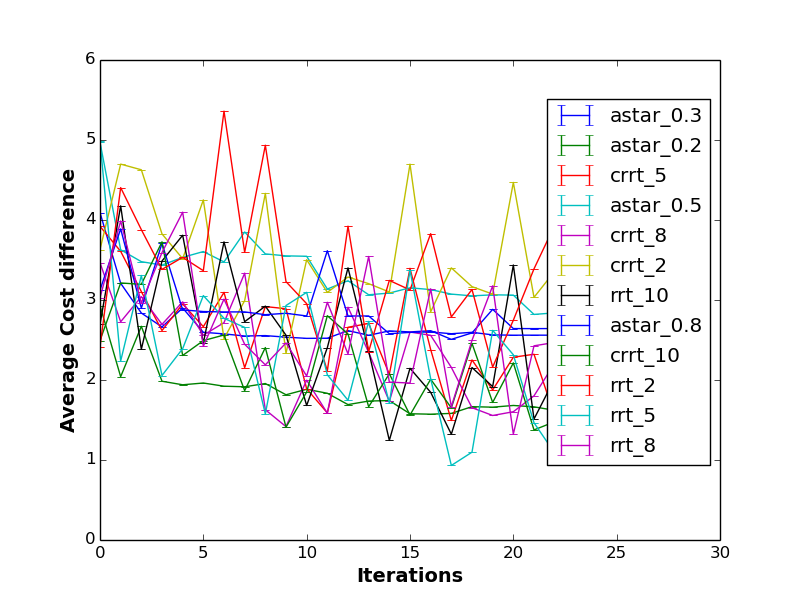
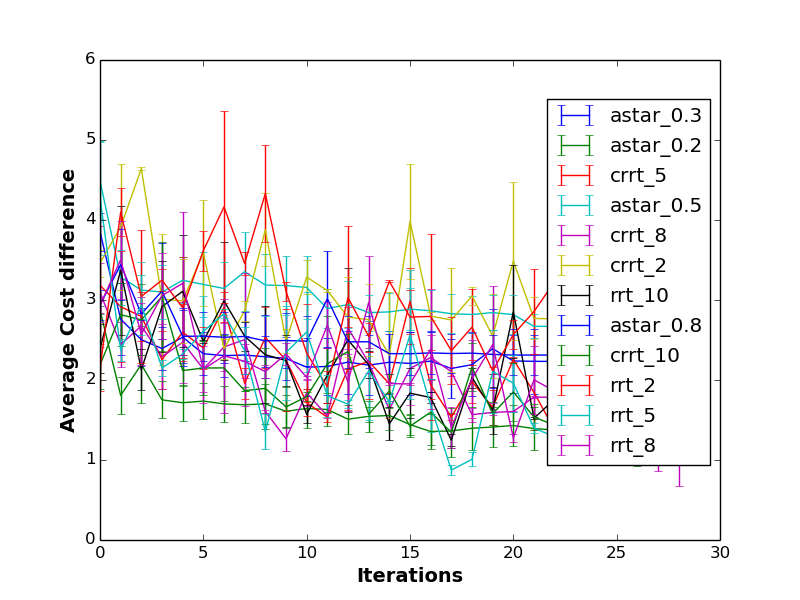
fixed experiment bug + better plots

Changed region(s): [[0.125, 0.21, 0.6875, 0.78], [0.8438, 0.78, 0.875, 0.81]]

diff --git a/active_perception_controller/src/evaluation.py b/active_perception_controller/src/evaluation.py
@@ -42,9 +42,9 @@ from mmp import experiment_load2
 
 class Evaluator(object):
     def __init__(self):
-        self.exp_name = rospy.get_param("~experiment_name", "different_featureset_new")
-        self.session_name = rospy.get_param("~session_name", "debug3")
-        self.no_of_runs = rospy.get_param( "number_of_runs",1)
+        self.exp_name = rospy.get_param("~experiment_name", "15_6_more_people")
+        self.session_name = rospy.get_param("~session_name", "pareto_front_full")
+        self.no_of_runs = rospy.get_param( "number_of_runs",5)
         self.filepath = os.path.dirname(os.path.abspath(__file__))
         self.directory = self.filepath+"/"+self.exp_name
         # RESULTS IS A DICT OF:
@@ -54,25 +54,28 @@ class Evaluator(object):
         self.experiment_data = experiment_load2(self.directory)
         self.gt_weights = fn.pickle_loader(self.directory+"/weights.pkl")
         self.results = [];
+        print self.results_dir
+        print "gothere"
         for i in range(self.no_of_runs):
             self.results.append(fn.pickle_loader(self.results_dir+"results_"+str(i+1)+".pkl"))
-
+        self.results = self.results[:3]
+        self.no_of_runs=2
         self.plots()
-        self.planner = MotionPlanner()
-        self.costlib = self.planner.cost_manager
-        self.ppl_pub =  rospy.Publisher("person_poses",PersonArray,queue_size = 10)
-        self.expert_path_pub = rospy.Publisher("expert_path",Path,queue_size = 1)
-        self.initial_paths_pub = rospy.Publisher("initial_weights_path",Path,queue_size = 1)
-        self.final_paths_pub = rospy.Publisher("final_weights_path",Path,queue_size = 1)
-        self.point_sub = rospy.Subscriber("clicked_point",PointStamped,self.point_cb)
-        self.astar_03_path_pub = rospy.Publisher("astar03_path",Path,queue_size = 1)
-        self.astar_08_path_pub = rospy.Publisher("astar08_path",Path,queue_size = 1)
-        self.crlt_path_pub = rospy.Publisher("crlt_path",Path,queue_size = 1)
-        self.visualization_counter = 0
+        # self.planner = MotionPlanner()
+        # self.costlib = self.planner.cost_manager
+        # self.ppl_pub =  rospy.Publisher("person_poses",PersonArray,queue_size = 10)
+        # self.expert_path_pub = rospy.Publisher("expert_path",Path,queue_size = 1)
+        # self.initial_paths_pub = rospy.Publisher("initial_weights_path",Path,queue_size = 1)
+        # self.final_paths_pub = rospy.Publisher("final_weights_path",Path,queue_size = 1)
+        # self.point_sub = rospy.Subscriber("clicked_point",PointStamped,self.point_cb)
+        # self.astar_03_path_pub = rospy.Publisher("astar03_path",Path,queue_size = 1)
+        # self.astar_08_path_pub = rospy.Publisher("astar08_path",Path,queue_size = 1)
+        # self.crlt_path_pub = rospy.Publisher("crlt_path",Path,queue_size = 1)
+        # self.visualization_counter = 0
 
     def get_multiple_runs(self,method):
         time_taken = []
-
+        print method
         for i in range(self.no_of_runs):
             time_taken.append(np.sum(self.results[i][method]["time_per_iter"]) + self.results[i][method]["time_to_cache"])
             train_size = np.array(self.results[i][method]["cost_diff"]).shape[1]*(1-self.results[i][method]["validation_proportion"])
@@ -83,19 +86,19 @@ class Evaluator(object):
             cost_diff_train = np.vstack([cost_diff_train,np.mean(np.array(self.results[i][method]["cost_diff"])[:,:train_size],axis=1)])
         # return the mean and standard error across runs
         val_mean = np.mean(cost_diff_val,axis=0)
-        val_std_err = np.std(cost_diff_val,axis=0)/np.sqrt(cost_diff_val.shape[1])
+        val_std_err = np.std(cost_diff_val,axis=0)/np.sqrt(self.no_of_runs)
         train_mean = np.mean(cost_diff_train,axis=0)
-        train_std_err = np.std(cost_diff_train,axis=0)/np.sqrt(cost_diff_train.shape[1])
+        train_std_err = np.std(cost_diff_train,axis=0)/np.sqrt(self.no_of_runs)
         time_mean = np.mean(time_taken)
         time_std = np.std(time_taken)
         return train_mean,train_std_err,val_mean,val_std_err,time_mean,time_std
 
     def plots(self):
         results_for_plots = []
-        for method in self.results[0].keys():
+
+        for method in self.results[1].keys():
             results_for_plots.append(self.get_multiple_runs(method))
 
-        print results_for_plots
 
         f = plt.figure()
         ax = f.add_subplot(111)
@@ -121,11 +124,11 @@ class Evaluator(object):
         f = plt.figure()
         ax = f.add_subplot(111)
         for n,method in enumerate(self.results[0].keys()):
-            if method !="astar_0.2":
+            if method !="p":
                 res = results_for_plots[n]
                 print res
-                plt.scatter(res[0][-1],res[-2],label = method)
-                plt.annotate(method,xy=(res[0][-1],res[-2]))
+                plt.errorbar(res[0][-1],res[-2],label = method,fmt="o",xerr = res[1][-1])
+                plt.annotate(method,xy=(res[0][-1]+0.1,res[-2]+0.1))
         #plt.legend(bbox_to_anchor=(1., 1,0.,-0.06),loc=1)
         ax.set_ylabel("Time Taken",fontweight = 'bold',fontsize = 14)
         ax.set_xlabel("Average Cost Difference",fontweight='bold',fontsize = 14)
@@ -134,11 +137,10 @@ class Evaluator(object):
         f = plt.figure()
         ax = f.add_subplot(111)
         for n,method in enumerate(self.results[0].keys()):
-            if method !="astar_0.2":
+            if method !="p":
                 res = results_for_plots[n]
-                print res
-                plt.scatter(res[2][-1],res[-2],label = method)
-                plt.annotate(method,xy=(res[2][-1],res[-2]))
+                plt.errorbar(res[2][-1],res[-2],label = method,fmt="o",xerr = res[3][-1])
+                plt.annotate(method,xy=(res[2][-1]+0.1,res[-2]+0.1))
         #plt.legend(bbox_to_anchor=(1., 1,0.,-0.06),loc=1)
         ax.set_ylabel("Time Taken",fontweight = 'bold',fontsize = 14)
         ax.set_xlabel("Average Cost Difference",fontweight='bold',fontsize = 14)

diff --git a/active_perception_controller/src/mmp.py b/active_perception_controller/src/mmp.py
@@ -129,11 +129,11 @@ class Learner(object):
         shuffle(self.experiment_data)
         self.pareto_run("2")
         shuffle(self.experiment_data)
-        self.single_run("3")
+        self.pareto_run("3")
         shuffle(self.experiment_data)
-        self.single_run("4")
+        self.pareto_run("4")
         shuffle(self.experiment_data)
-        self.single_run("5")
+        self.pareto_run("5")
 
     def write_learning_params(self,directory):
         f = open(directory+"readme","w")
